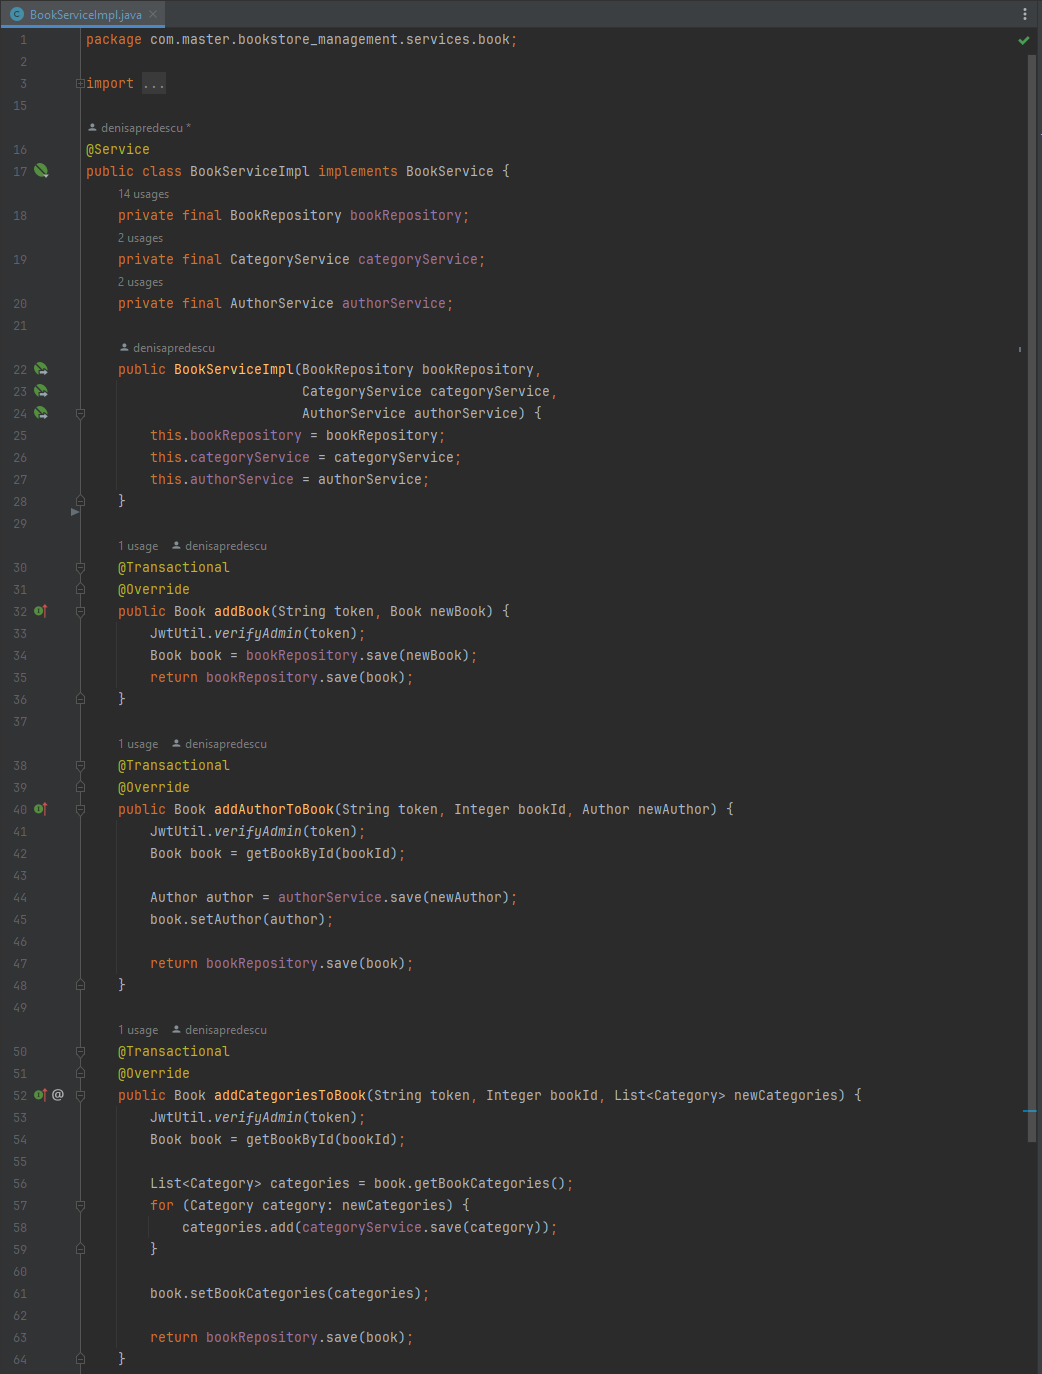
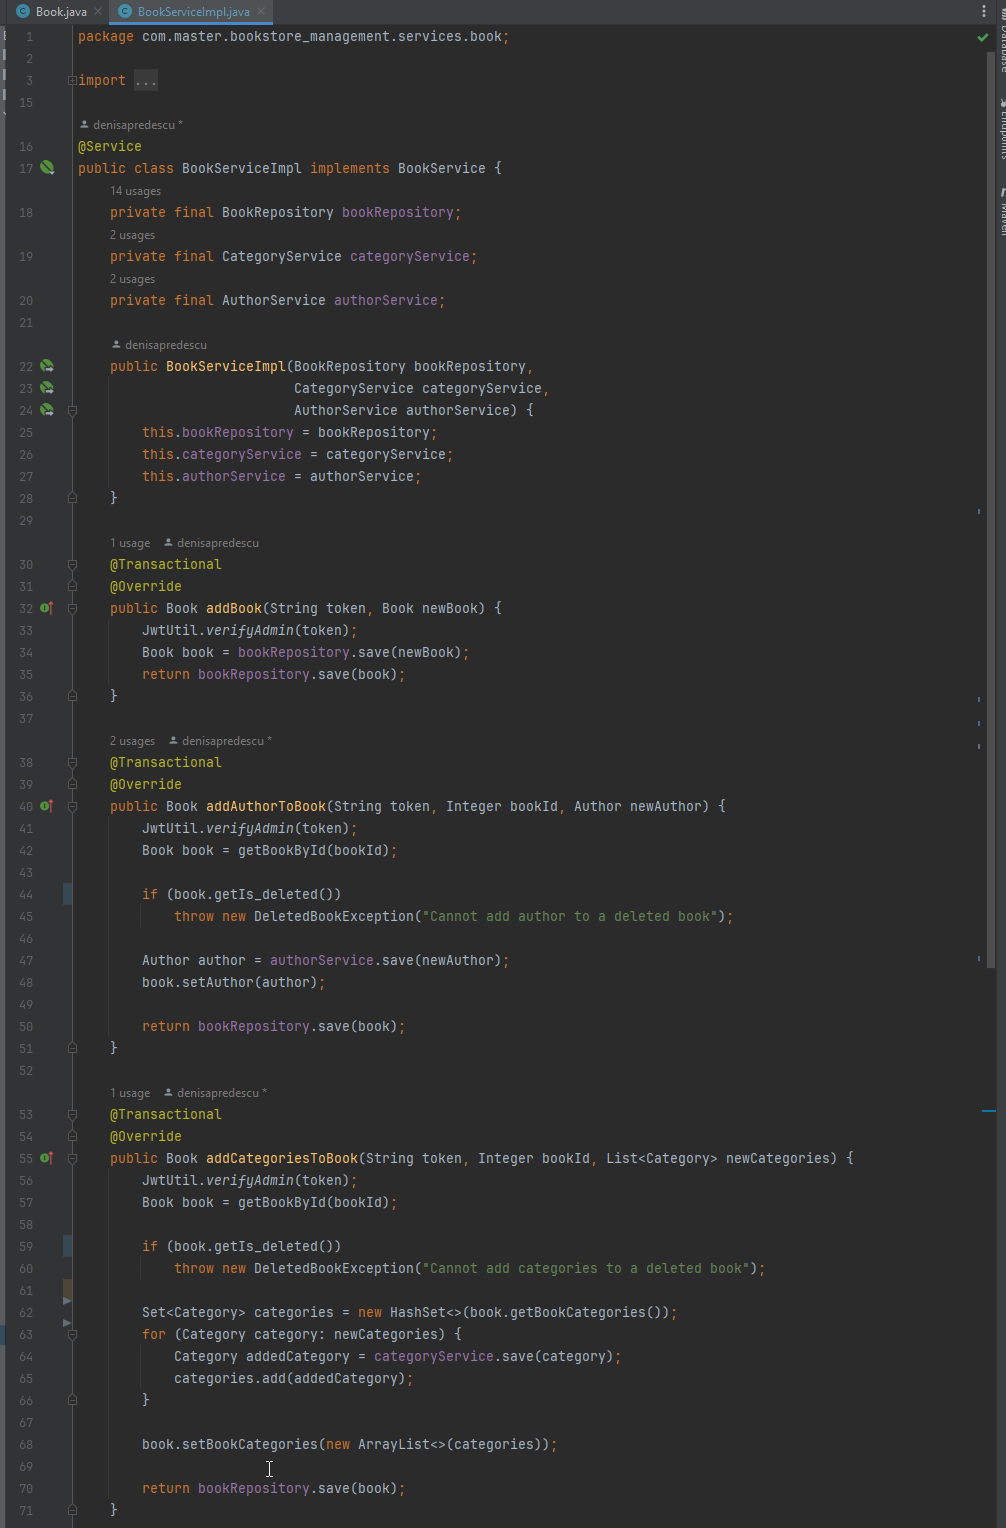
add pictures

diff --git a/src/main/java/com/master/bookstore_management/services/book/BookServiceImpl.java b/src/main/java/com/master/bookstore_management/services/book/BookServiceImpl.java
@@ -41,7 +41,7 @@ public class BookServiceImpl implements BookService {
         JwtUtil.verifyAdmin(token);
         Book book = getBookById(bookId);
 
-        if (book.getIs_deleted() == true)
+        if (book.getIs_deleted())
             throw new DeletedBookException("Cannot add author to a deleted book");
 
         Author author = authorService.save(newAuthor);
@@ -56,13 +56,10 @@ public class BookServiceImpl implements BookService {
         JwtUtil.verifyAdmin(token);
         Book book = getBookById(bookId);
 
-        if (book.getIs_deleted() == true)
+        if (book.getIs_deleted())
             throw new DeletedBookException("Cannot add categories to a deleted book");
 
-
-//        List<Category> categories = book.getBookCategories();
         Set<Category> categories = new HashSet<>(book.getBookCategories());
-//        categories.to
         for (Category category: newCategories) {
             Category addedCategory = categoryService.save(category);
             categories.add(addedCategory);
@@ -80,7 +77,7 @@ public class BookServiceImpl implements BookService {
         Book book = bookRepository.findById(id).orElseThrow(
                 () -> new NoSuchElementException("Book with this id not found"));
 
-        if (book.getIs_deleted() == true)
+        if (book.getIs_deleted())
             throw new DeletedBookException("Cannot update a deleted book");
 
         book.setName(bookToUpdate.getName());
